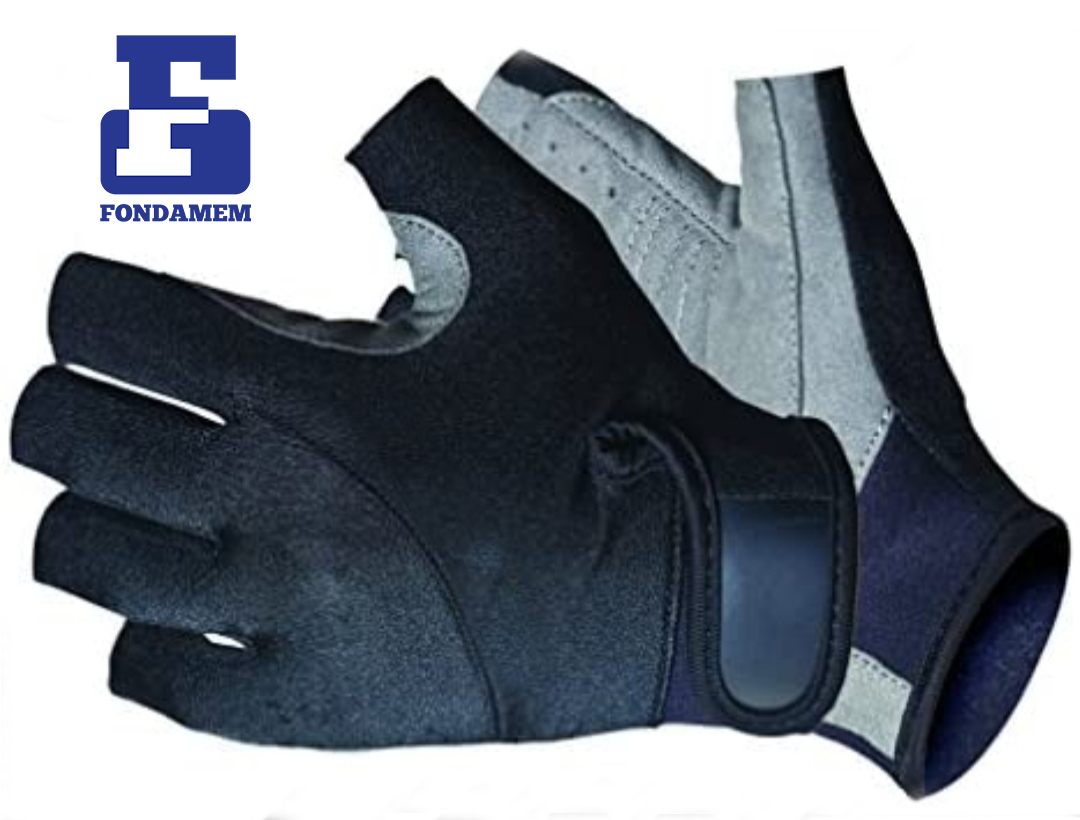
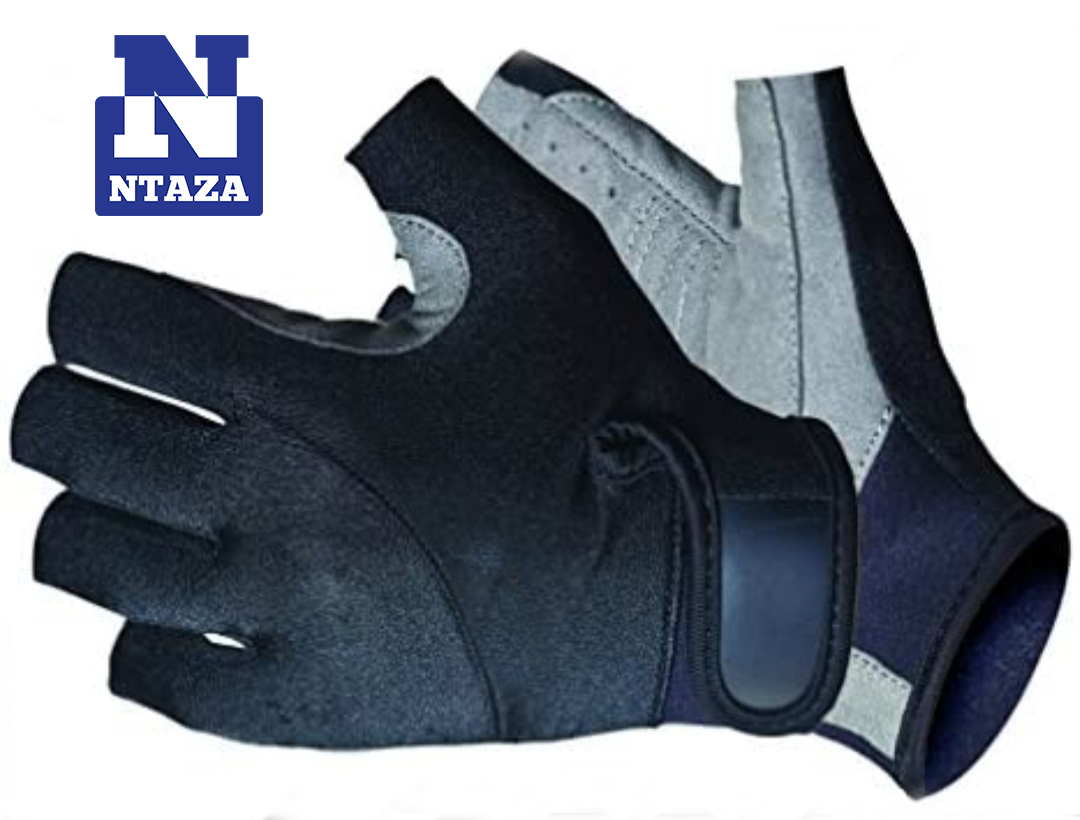
update new

Changed region(s): [[0.0611, 0.0305, 0.2444, 0.2744]]

diff --git a/index.html b/index.html
@@ -20,7 +20,7 @@
 	<meta name="twitter:image" content="" />
 	<meta name="twitter:url" content="" />
 	<meta name="twitter:card" content="" />
-	<link href="data/logo/logo22.jpg" rel="shortcut icon"/>
+	<link href="data/logo/logo22.png" rel="shortcut icon"/>
 
 	<link href="https://fonts.googleapis.com/css?family=Josefin+Slab:400,600,700" rel="stylesheet">
 	<link href="https://fonts.googleapis.com/css?family=Sacramento" rel="stylesheet">
@@ -58,12 +58,12 @@
 						<div class="container">
 							<div class="row">
 								<div class="col-sm-1 logo-brand" style="display: flex;flex-direction: row;">
-									<img src="/data/logo/logo22.jpg" alt="logo" style="width: 50px;height:50px;border-radius:50%;">
+									<img src="/data/logo/logo22.png" alt="logo" style="width: 50px;height:50px;border-radius:50%;">
 								<!-- <h5>FONDAMEM</h5> -->
 								</div>
 								<div class="col-sm-7 text-left menu-1">
 									<ul>
-										<li ><h3 style="color:rgb(28, 2, 121);">FONDAMEM</h3></li>
+										<li ><h3 style="color:rgb(28, 2, 121);">NTAZA</h3></li>
 										<li class="active"><a href="index.html">Home</a></li>
 									
 										<li><a href="pages/aboutus.html">About</a></li>
@@ -93,7 +93,7 @@
 					<div class="col-md-8">
 						<div class="flexslider animate-box" style="margin-top: 50px;">
 							<ul class="slides">
-							   <li style="background-image: url(data/images/graphic/gpp3.jpg);">
+							   <li style="background-image: url(data/products/gpp5.jpg);">
 								   <div class="overlay-gradient"></div>
 								   <div class="container-fluid">
 									   <div class="row">
@@ -107,7 +107,7 @@
 									   </div>
 								   </div>
 							   </li>
-							   <li style="background-image: url(data/images/background/bgb.jpg);">
+							   <li style="background-image: url(data/products/8.jpg);">
 								   <div class="overlay-gradient"></div>
 								   <div class="container-fluid">
 									   <div class="row">
@@ -121,7 +121,7 @@
 									   </div>
 								   </div>
 							   </li>
-							   <li style="background-image: url(data/images/background/bg3.jpg);">
+							   <li style="background-image: url(data/products/9\ CANOE.jpg);">
 								   <div class="overlay-gradient"></div>
 								   <div class="container-fluid">
 									   <div class="row">
@@ -146,14 +146,14 @@
 						</div>
 						<div class="row">
 							<div class="col-sm-12 col-md-12">
-								<a href="pages/productDetail.html" class="featured text-center animate-box" style="background-image: url(data/images/graphic/gpp0.jpg);height: 100px;">
+								<a href="pages/productDetail.html" class="featured text-center animate-box" style="background-image: url(data/products/15.jpg);height: 100px;">
 									<div class="desc">
 										<h3>Flat Water Canoe Package</h3>
 									</div>
 								</a>
 							</div>
 							<div class="col-sm-12 col-md-12">
-								<a href="pages/productDetail.html" class="featured text-center animate-box" style="background-image: url(data/images/graphic/gp.jpg);height: 100px;">
+								<a href="pages/productDetail.html" class="featured text-center animate-box" style="background-image: url(data/products/15.jpg);height: 100px;">
 									<div class="desc">
 										<h3>Premium Watersports Full Cut Water-Rescue HelmetCanoeing Kayaking Sailing Boating Helmets</h3>
 									</div>
@@ -297,7 +297,7 @@
 					</div>
 					<div class="col-md-2">
 						<div class="fh5co-blog animate-box">
-							<a href="pages/productDetail.html"><img class="img-responsive" style="height: 150px;" src="data/images/graphic/gpp7.jpg" alt=""></a>
+							<a href="pages/productDetail.html"><img class="img-responsive" style="height: 150px;" src="data/products/prod3.jpg" alt=""></a>
 							<div class="blog-text">
 								<h3><a href="pages/productDetail.html">sticker canoes</a></h3>
 							</div> 
@@ -313,7 +313,7 @@
 					</div>
 					<div class="col-md-2">
 						<div class="fh5co-blog animate-box">
-							<a href="pages/productDetail.html"><img class="img-responsive" style="height: 150px;" src="data/images/graphic/gp4.png" alt=""></a>
+							<a href="pages/productDetail.html"><img class="img-responsive" style="height: 150px;" src="data/products/gpp.jpg" alt=""></a>
 							<div class="blog-text">
 								<h3><a href="pages/productDetail.html">Helmet Canoeing</a></h3>
 							</div> 
@@ -321,7 +321,7 @@
 					</div>
 					<div class="col-md-2">
 						<div class="fh5co-blog animate-box">
-							<a href="pages/productDetail.html"><img class="img-responsive" style="height: 150px;" src="data/images/graphic/gpp5.jpg" alt=""></a>
+							<a href="pages/productDetail.html"><img class="img-responsive" style="height: 150px;" src="data/products/gpp5.jpg" alt=""></a>
 							<div class="blog-text">
 								<h3><a href="pages/productDetail.html">Helmet Canoeing</a></h3>
 							</div> 
@@ -407,21 +407,21 @@
 							
 							<div class="row">
 								<div class="col-sm-12 col-md-12">
-									<a target="_blank" href="/index.html" class="featured text-center animate-box"><img src="data/images/graphic/5.png" alt="police" class="advertise" style="height: 200px;">
+									<a target="_blank" href="/pages/productDetail.html" class="featured text-center animate-box"><img src="data/products/5.jpg" alt="police" class="advertise" style="height: 200px;">
 										<div class="desc">
 											<h3>Kayaking</h3>
 										</div>
 									</a>
 								</div>
 								<div class="col-sm-12 col-md-12">
-									<a target="_blank" href="http://rwandafoam.com/" class="featured text-center animate-box" ><img src="data/images/graphic/8.png" alt="police" class="advertise"style="height: 150px;">
+									<a target="_blank" href="pages/productDetail.html" class="featured text-center animate-box" ><img src="data/products/8.jpg" alt="police" class="advertise"style="height: 150px;">
 										<div class="desc">
 											<h3>Best boat</h3>
 										</div>
 									</a>
 								</div>
 								<div class="col-sm-12 col-md-12">
-									<a target="_blank" href="https://www.inyangeindustries.com/" class="featured text-center animate-box" ><img src="data/images/graphic/12.jpg" alt="police" class="advertise" style="height: 400px;">
+									<a target="_blank" href="pages/productDetail.html" class="featured text-center animate-box" ><img src="data/products/12.jpg" alt="police" class="advertise" style="height: 400px;">
 										<div class="desc">
 											<h3>2 Rider Inflatable Travel Kayak by Airhead</h3>
 										</div>

diff --git a/pages/productDetail.html b/pages/productDetail.html
@@ -62,7 +62,7 @@
 								</div>
 								<div class="col-sm-7 text-left menu-1">
 									<ul>
-										<li ><h3 style="color:rgb(28, 2, 121);">FONDAMEM</h3></li>
+										<li ><h3 style="color:rgb(28, 2, 121);">NTAZA</h3></li>
 										<li class="active"><a href="../index.html">Home</a></li>
 									
 										<li><a href="aboutus.html">About</a></li>
@@ -84,7 +84,7 @@
 			</div>
 		</nav>
 
-        <div id="fh5co-content">
+    <div id="fh5co-content">
             <div class="container">
                 <div class="row">
                     <div class="col-md-9 col-padded-right">
@@ -95,7 +95,7 @@
                                         <h3><a href="#">Name for Product</a></h3>
 										<span class="category">Lifestyle</span>
                                     </div>
-                                    <a href="#"><img class="img-responsive" src="../data/images/graphic/gpp3.jpg" alt=""></a>
+                                    <a href="#"><img class="img-responsive" src="../data/products/MEN.jpg" alt=""></a>
                                     <div class="blog-text text-center">
                                         <p>Far far away, behind the word mountains, far from the countries Vokalia and Consonantia, there live the blind texts. Dignissimos asperiores vitae velit veniam totam fuga molestias accusamus alias autem provident. Odit ab aliquam dolor eius. Dignissimos asperiores vitae velit veniam totam fuga molestias accusamus alias autem provident. Odit ab aliquam dolor eius.</p>
                                     
@@ -113,7 +113,7 @@
 										<h3><a href="#">Product Name</a></h3>
 										<span class="category">Category</span>
 									</div>
-									<a href="../pages/productDetail.html"><img class="img-responsive" src="../data/images/graphic/gpp2.jpg" alt="" style="height: 220px;"></a>
+									<a href="../pages/productDetail.html"><img class="img-responsive" src="../data/products/prod (2).jpg" alt="" style="height: 220px;"></a>
 									<div class="blog-text text-center">
 										<p>Far far away, behind the word mountains, far from the countries Vokalia and Consonantia, there live the blind texts.</p>
 										
@@ -126,7 +126,7 @@
 										<h3><a href="#">Product Name</a></h3>
 										<span class="category">Lifestyle</span>
 									</div>
-									<a href="../pages/productDetail.html"><img class="img-responsive" src="../data/images/graphic/gpp7.jpg" alt="" style="height: 220px;"></a>
+									<a href="../pages/productDetail.html"><img class="img-responsive" src="../data/products/p.jpg" alt="" style="height: 220px;"></a>
 									<div class="blog-text text-center">
 										<p>Far far away, behind the word mountains, far from the countries Vokalia and Consonantia, there live the blind texts.</p>
 									
@@ -146,21 +146,21 @@
 							
 							<div class="row">
 								<div class="col-sm-12 col-md-12">
-									<a target="_blank" href="productDetail.html" class="featured text-center animate-box"><img src="../data/images/graphic/gp.jpg" alt="police" class="advertise" style="height: 150px;">
+									<a target="_blank" href="productDetail.html" class="featured text-center animate-box"><img src="../data/products/prod1.jpg" alt="police" class="advertise" style="height: 150px;">
 										<div class="desc">
 											<h3>Nawe wagura ubwawe</h3>
 										</div>
 									</a>
 								</div>
 								<div class="col-sm-12 col-md-12">
-									<a target="_blank" href="productDetail.html" class="featured text-center animate-box" ><img src="../data/images/graphic/gp4.jpg" alt="police" class="advertise" style="height: 300px;">
+									<a target="_blank" href="productDetail.html" class="featured text-center animate-box" ><img src="../data/products/prod.jpg" alt="police" class="advertise" style="height: 300px;">
 										<div class="desc">
 											<h3>Ingashyi zigezweho</h3>
 										</div>
 									</a>
 								</div>
 								<div class="col-sm-12 col-md-12">
-									<a target="_blank" href="productDetail.html" class="featured text-center animate-box" ><img src="../data/images/graphic/gpp4.jpg" alt="police" class="advertise" style="height: 250px;">
+									<a target="_blank" href="productDetail.html" class="featured text-center animate-box" ><img src="../data/products/gpp5.jpg" alt="police" class="advertise" style="height: 250px;">
 										<div class="desc">
 											<h3>Wagura Package yose udahenzwe</h3>
 										</div>
@@ -179,7 +179,7 @@
 	<div class="container">
 		<div class="row row-pb-md">
 			<div class="col-md-4 fh5co-widget">
-				<h4>Fondamem</h4>
+				<h4>NTAZA</h4>
 				<p>
 					Fondamem is based at Nyarugenge in Kigali with all water materials and sports equipments
 					and fishing materials.
@@ -198,7 +198,7 @@
 				<h4>Contact Information</h4>
 				
 				<ul class="fh5co-footer-links">
-					<li><h3>Fondamem LTD</h3></li>
+					<li><h3>NTAZA LTD</h3></li>
 					<li>Avenue de Nyarugenge</li>
 					<li>KN 1 RD 48</li>
 					<li>P.O.BOX Kigali-Rwanda</li>

diff --git a/pages/aboutus.html b/pages/aboutus.html
@@ -3,7 +3,7 @@
 	<head>
 	<meta charset="utf-8">
 	<meta http-equiv="X-UA-Compatible" content="IE=edge">
-	<title>FONDAMEM|aboutus</title>
+	<title>NTAZA|aboutus</title>
 	<meta name="viewport" content="width=device-width, initial-scale=1">
 	<meta name="description" content="Free HTML5 Website Template by freehtml5.co" />
 	<meta name="keywords" content="fONDAMEM Website for fishing tourism " />
@@ -20,7 +20,7 @@
 	<meta name="twitter:image" content="" />
 	<meta name="twitter:url" content="" />
 	<meta name="twitter:card" content="" />
-	<link href="../data/logo/logo22.jpg" rel="shortcut icon"/>
+	<link href="../data/logo/logo22.png" rel="shortcut icon"/>
 
 	<link href="https://fonts.googleapis.com/css?family=Josefin+Slab:400,600,700" rel="stylesheet">
 	<link href="https://fonts.googleapis.com/css?family=Sacramento" rel="stylesheet">
@@ -62,7 +62,7 @@
 								</div>
 								<div class="col-sm-7 text-left menu-1">
 									<ul>
-										<li ><h3 style="color:rgb(28, 2, 121);">FONDAMEM</h3></li>
+										<li ><h3 style="color:rgb(28, 2, 121);">NTAZA</h3></li>
 										<li ><a href="../index.html">Home</a></li>
 									
 										<li class="active"><a href="aboutus.html">About</a></li>
@@ -96,19 +96,19 @@
                 <div class="row">
                     <div class="col-md-10 col-md-offset-1">
                         <div class="fh5co-staff">
-                            <img src="../data/logo/logo22.jpg" alt="ceo">
+                            <img src="../data/logo/logo22.png" alt="ceo">
                             <h3>Emmanuel MUSHIMIYIMANA</h3>
 							<strong class="role" style="color: black;"><b>CEO</b></strong>
 							<div class="description">
-								<h3>FONDAMEM</h3>
+								<h3>NTAZA</h3>
 								<p>
-									Fondamem is One of the leading Company which sells diffent qualities of water sports materials (Canoes, Paddles,Jerseys
+									Ntaza is One of the leading Company which sells diffent qualities of water sports materials (Canoes, Paddles,Jerseys
 									Gloves and other sports equipment and fishing materials.)
 								</p>
 								<p>
 									Established by Rwandan Fisherman Emmanuel <b>MUSHIMIYIMANA</b>, Who doubles as its managing director.
 								</p>
-								<p>Fondamem started as a small Company in 2020, but it is growing day by day to become one of the largest 
+								<p>Ntaza started as a small Company in 2020, but it is growing day by day to become one of the largest 
 									Company in Rwanda , Serving everywhere in the country their products with its main retail and wholesale shop, located at Nyarugenge Kigali City,
 									Fondamem is known across the region of great lakes for figh qualit water sports materials, sport clothes, boat equipments and 
 									fishing accessories.
@@ -159,9 +159,9 @@
 			<div class="container">
 				<div class="row row-pb-md">
 					<div class="col-md-4 fh5co-widget">
-						<h4>Fondamem</h4>
+						<h4>Ntaza</h4>
 						<p>
-							Fondamem is based at Nyarugenge in Kigali with all water materials and sports equipments
+							Ntaza is based at Nyarugenge in Kigali with all water materials and sports equipments
 							and fishing materials.
 						</p>
 					</div>
@@ -178,7 +178,7 @@
 						<h4>Contact Information</h4>
 						
 						<ul class="fh5co-footer-links">
-							<li><h3>Fondamem LTD</h3></li>
+							<li><h3>Ntaza LTD</h3></li>
 							<li>Avenue de Nyarugenge</li>
 							<li>KN 1 RD 48</li>
 							<li>P.O.BOX Kigali-Rwanda</li>

diff --git a/pages/contactus.html b/pages/contactus.html
@@ -3,7 +3,7 @@
 	<head>
 	<meta charset="utf-8">
 	<meta http-equiv="X-UA-Compatible" content="IE=edge">
-	<title>FONDAMEM|Contactus</title>
+	<title>NTAZA|Contactus</title>
 	<meta name="viewport" content="width=device-width, initial-scale=1">
 	<meta name="description" content="Free HTML5 Website Template by freehtml5.co" />
 	<meta name="keywords" content="fONDAMEM Website for fishing tourism " />
@@ -20,7 +20,7 @@
 	<meta name="twitter:image" content="" />
 	<meta name="twitter:url" content="" />
 	<meta name="twitter:card" content="" />
-	<link href="../data/logo/logo22.jpg" rel="shortcut icon"/>
+	<link href="../data/logo/logo22.png" rel="shortcut icon"/>
 
 	<link href="https://fonts.googleapis.com/css?family=Josefin+Slab:400,600,700" rel="stylesheet">
 	<link href="https://fonts.googleapis.com/css?family=Sacramento" rel="stylesheet">
@@ -62,7 +62,7 @@
 								</div>
 								<div class="col-sm-7 text-left menu-1">
 									<ul>
-										<li ><h3 style="color:rgb(28, 2, 121);">FONDAMEM</h3></li>
+										<li ><h3 style="color:rgb(28, 2, 121);">NTAZA</h3></li>
 										<li ><a href="../index.html">Home</a></li>
 									
 										<li><a href="aboutus.html">About</a></li>
@@ -140,9 +140,9 @@
 			<div class="container">
 				<div class="row row-pb-md">
 					<div class="col-md-4 fh5co-widget">
-						<h4>Fondamem</h4>
+						<h4>Ntaza</h4>
 						<p>
-							Fondamem is based at Nyarugenge in Kigali with all water materials and sports equipments
+							Ntaza is based at Nyarugenge in Kigali with all water materials and sports equipments
 							and fishing materials.
 						</p>
 					</div>
@@ -159,7 +159,7 @@
 						<h4>Contact Information</h4>
 						
 						<ul class="fh5co-footer-links">
-							<li><h3>Fondamem LTD</h3></li>
+							<li><h3>Ntaza LTD</h3></li>
 							<li>Avenue de Nyarugenge</li>
 							<li>KN 1 RD 48</li>
 							<li>P.O.BOX Kigali-Rwanda</li>
